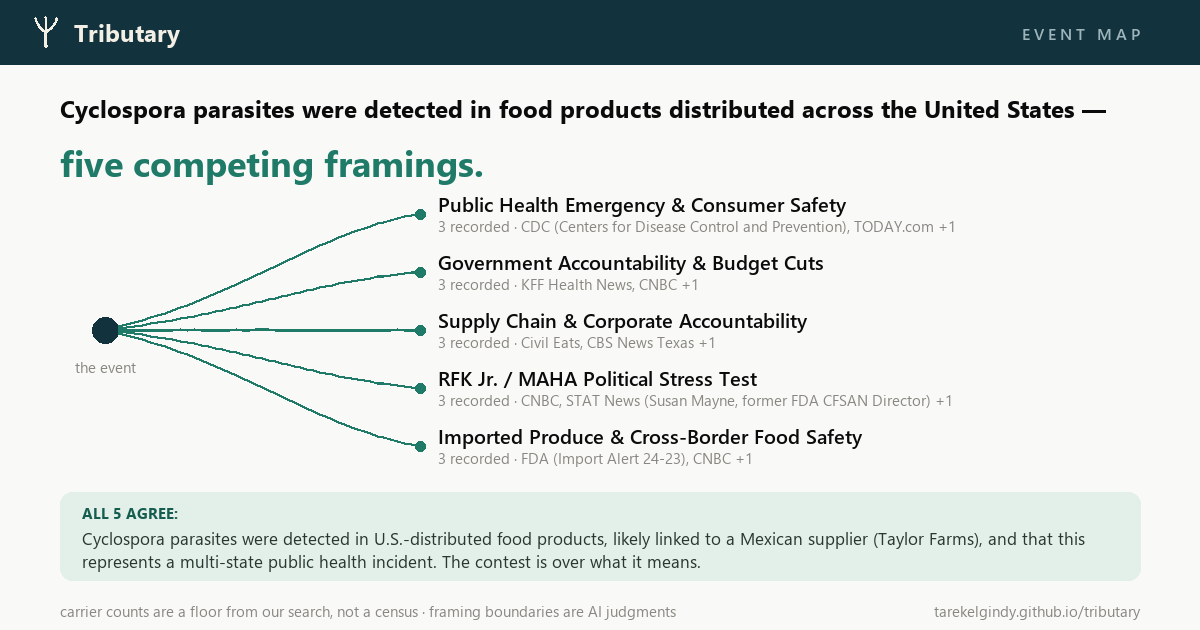
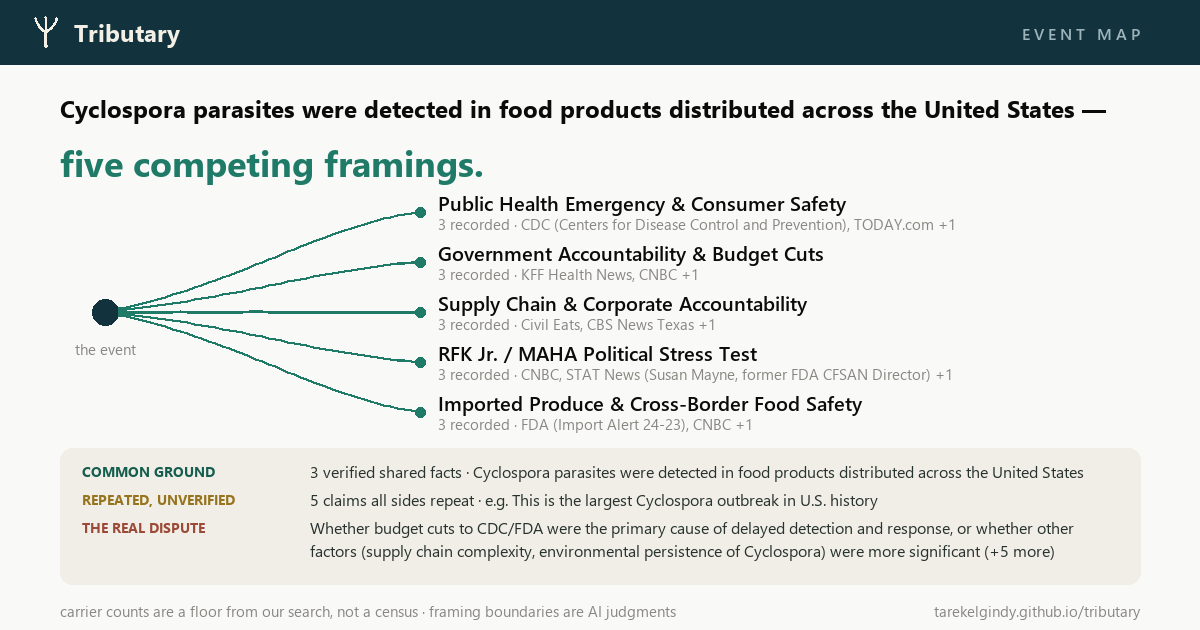
Event cards carry the full shared foundation, three voices
The riverbed becomes three labeled rows - COMMON GROUND (teal,
verified shared facts), REPEATED UNVERIFIED (amber, claims all sides
repeat), THE REAL DISPUTE (rust, the actual disagreement + count) -
one compressed line each, with the share page carrying the full three
lists. "All N agree" renamed to Common ground per Tarek. Grid fallback
gets the same band; validated on the 8-framing crypto event. Cyclospora,
Macklemore, and crypto cards rendered.

diff --git a/gallery/cards/e82aa88b3a7e.html b/gallery/cards/e82aa88b3a7e.html
@@ -27,7 +27,7 @@
             color: #898781; margin-bottom: 0.5rem; }
   .headline { font-size: 1.6rem; font-weight: 650; letter-spacing: -0.01em; margin: 0 0 0.3rem; }
   .title { color: #52514e; font-size: 0.95rem; margin: 0 0 1rem; }
-  .agree { background: #f4f3ef; border-radius: 8px; padding: 0.7rem 0.9rem; font-size: 0.88rem;
+  .agree { background: #e3efe9; border-radius: 8px; padding: 0.7rem 0.9rem; font-size: 0.88rem;
            color: #52514e; margin: 0 0 1.1rem; }
   .agree strong { color: #0b0b0b; }
   .fgrid { display: grid; grid-template-columns: 1fr 1fr; gap: 0.8rem; }
@@ -38,13 +38,21 @@
   .dots { display: flex; gap: 4px; align-items: center; }
   .dot { width: 9px; height: 9px; border-radius: 50%; background: #2a78d6; }
   .fcount { font-size: 0.78rem; color: #898781; margin-left: 4px; white-space: nowrap; }
+  .found { margin-top: 1.1rem; }
+  .found h3 { font-size: 0.78rem; font-weight: 700; letter-spacing: 0.06em;
+              text-transform: uppercase; margin: 1rem 0 0.3rem; }
+  .fh-cg { color: #155e4f; }
+  .fh-uv { color: #96741e; }
+  .fh-dp { color: #9c4a38; }
+  .found ul { margin: 0; padding-left: 1.15rem; color: #3d3c39; font-size: 0.88rem; }
+  .found li { margin-bottom: 0.3rem; }
   .cardfoot { border-top: 1px solid #e1e0d9; margin-top: 1rem; padding-top: 0.65rem;
               font-size: 0.78rem; color: #898781; display: flex; justify-content: space-between;
               flex-wrap: wrap; gap: 0.4rem; }
-  .cta { display: inline-block; margin: 1.3rem 0 0; background: #2a78d6; color: #fff;
+  .cta { display: inline-block; margin: 1.3rem 0 0; background: #1f7a68; color: #fff;
          text-decoration: none; font-weight: 600; font-size: 0.95rem;
          padding: 0.55rem 1.1rem; border-radius: 8px; }
-  .cta:hover { background: #184f95; }
+  .cta:hover { background: #155e4f; }
   .honesty { margin-top: 2.2rem; padding-top: 0.9rem; border-top: 1px solid #e1e0d9;
              color: #898781; font-size: 0.82rem; }
   .honesty a { color: #2a78d6; text-decoration: none; }
@@ -54,10 +62,10 @@
 <body>
 <div class="wrap">
   <div class="card">
-    <div class="kicker">Tributary · event analysis</div>
+    <div class="kicker">Tributary · event map</div>
     <div class="headline">8 competing framings.</div>
     <p class="title">A financial disclosure document reported that Donald Trump received over 1 billion dollars in income or value from cryptocurrency-related ventures.</p>
-    <div class="agree"><strong>Everyone agrees:</strong> Trump disclosed over $1 billion in crypto-related income, that he has financial interests in crypto ventures including World Liberty Financial, that the $TRUMP token experienced a major price decline, and that he pardoned Binance's CZ. The contest is over what it <em>means</em>.</div>
+    <div class="agree"><strong>Common ground:</strong> Trump disclosed over $1 billion in crypto-related income, that he has financial interests in crypto ventures including World Liberty Financial, that the $TRUMP token experienced a major price decline, and that he pardoned Binance's CZ. The contest is over what it <em>means</em>.</div>
     <div class="fgrid">
 <div class="fcell">
       <div class="fname">Corruption &amp; Conflict of Interest</div>
@@ -117,9 +125,14 @@
     </div>
     </div>
     
+    <div class="found">
+      <h3 class="fh-cg">Common ground — verified shared facts</h3><ul><li>A financial disclosure document reported that Donald Trump received over $1 billion in income or value from cryptocurrency-related ventures.</li><li>Trump's financial disclosure was 927 pages in length.</li><li>The $TRUMP token experienced a significant price decline from its peak.</li><li>Trump pardoned Changpeng Zhao (CZ), founder of Binance.</li><li>Trump disclosed a financial interest in World Liberty Financial (WLF).</li></ul>
+      <h3 class="fh-uv">Repeated by all sides, unverified</h3><ul><li>The UAE sovereign wealth fund invested $500 million in World Liberty Financial.</li><li>Trump earned $636 million specifically from the $TRUMP token.</li><li>988,905 retail wallets holding $TRUMP experienced losses.</li><li>Pakistan's government signed an MOU with World Liberty Financial.</li><li>The $TRUMP token's tokenomics allocate 80% of supply to Trump entities and 20% to the public.</li><li>Obama's final financial disclosure was 8 pages; Biden's was 11 pages.</li><li>Trump's disclosure filing incurred late fees and required a 45-day extension.</li></ul>
+      <h3 class="fh-dp">The actual points of disagreement</h3><ul><li>Whether Trump's crypto income constitutes a conflict of interest or self-dealing (Corruption framing) vs. whether it is legally permissible and reflects business success (Presidential Success framing)</li><li>Whether foreign investment in Trump crypto ventures represents a national security threat and pay-to-play channel (Foreign Influence framing) vs. whether outside fund managers handle his assets independently</li><li>Whether the $TRUMP token's structure and collapse caused systematic harm to retail investors (Retail Investor Harm framing) vs. whether retail participation in meme coins is a voluntary, speculative choice</li><li>Whether the 927-page disclosure represents unprecedented transparency (Presidential Transparency framing) or a document so vast it obscures rather than clarifies (Legislative Capture framing)</li><li>Whether Trump's crypto policy (GENIUS Act, deregulation) is a quid pro quo for personal enrichment (Corruption framing) vs. whether it reflects a coherent 'America First' crypto agenda (Presidential Success framing)</li><li>Whether the timing of the disclosure during Senate crypto bill negotiations poisoned legislative integrity (Legislative Capture framing) vs. whether it is irrelevant to the merits of crypto policy</li><li>Whether Trump's crypto dealings are politically reckless and will damage the GOP (Conservative Institutional Alarm framing) vs. whether they are legally sound and politically defensible</li><li>Whether meme coin tokenomics expose a regulatory gap that allows insider profit-taking (Crypto Market Structure framing) vs. whether meme coins are inherently speculative and require no special regulation</li></ul>
+    </div>
     <div class="cardfoot">
       <span>dots = carriers our search recorded — a floor, not a census; smaller outlets and individual voices are undercounted · framing boundaries are AI judgments</span>
-      <span>AI-generated, not human-reviewed</span>
+      <span>framing boundaries are AI judgments</span>
     </div>
   </div>
 

diff --git a/gallery/cards/8e48743e23ca.html b/gallery/cards/8e48743e23ca.html
@@ -38,6 +38,14 @@
   .dots { display: flex; gap: 4px; align-items: center; }
   .dot { width: 9px; height: 9px; border-radius: 50%; background: #2a78d6; }
   .fcount { font-size: 0.78rem; color: #898781; margin-left: 4px; white-space: nowrap; }
+  .found { margin-top: 1.1rem; }
+  .found h3 { font-size: 0.78rem; font-weight: 700; letter-spacing: 0.06em;
+              text-transform: uppercase; margin: 1rem 0 0.3rem; }
+  .fh-cg { color: #155e4f; }
+  .fh-uv { color: #96741e; }
+  .fh-dp { color: #9c4a38; }
+  .found ul { margin: 0; padding-left: 1.15rem; color: #3d3c39; font-size: 0.88rem; }
+  .found li { margin-bottom: 0.3rem; }
   .cardfoot { border-top: 1px solid #e1e0d9; margin-top: 1rem; padding-top: 0.65rem;
               font-size: 0.78rem; color: #898781; display: flex; justify-content: space-between;
               flex-wrap: wrap; gap: 0.4rem; }
@@ -57,7 +65,7 @@
     <div class="kicker">Tributary · event map</div>
     <div class="headline">5 competing framings.</div>
     <p class="title">Cyclospora parasites were detected in food products distributed across the United States.</p>
-    <div class="agree"><strong>All 5 agree:</strong> Cyclospora parasites were detected in U.S.-distributed food products, likely linked to a Mexican supplier (Taylor Farms), and that this represents a multi-state public health incident. The contest is over what it <em>means</em>.</div>
+    <div class="agree"><strong>Common ground:</strong> Cyclospora parasites were detected in U.S.-distributed food products, likely linked to a Mexican supplier (Taylor Farms), and that this represents a multi-state public health incident. The contest is over what it <em>means</em>.</div>
     <div class="fgrid">
 <div class="fcell">
       <div class="fname">Public Health Emergency &amp; Consumer Safety</div>
@@ -96,6 +104,11 @@
     </div>
     </div>
     
+    <div class="found">
+      <h3 class="fh-cg">Common ground — verified shared facts</h3><ul><li>Cyclospora parasites were detected in food products distributed across the United States</li><li>Taylor Farms de Mexico is a produce supplier that has been linked to Cyclospora contamination in past U.S. outbreaks</li><li>Cyclospora outbreaks in the U.S. have historically been associated with fresh produce imported from Mexico</li></ul>
+      <h3 class="fh-uv">Repeated by all sides, unverified</h3><ul><li>This is the largest Cyclospora outbreak in U.S. history</li><li>CDC and FDA budget cuts directly reduced surveillance capacity and delayed outbreak detection/response</li><li>Taylor Farms' market dominance in produce supply amplified outbreak reach</li><li>Taco Bell and Walmart received contaminated products from Taylor Farms in this outbreak</li><li>Mexican agricultural authorities tested negative for Cyclospora in the implicated produce</li></ul>
+      <h3 class="fh-dp">The actual points of disagreement</h3><ul><li>Whether budget cuts to CDC/FDA were the primary cause of delayed detection and response, or whether other factors (supply chain complexity, environmental persistence of Cyclospora) were more significant</li><li>Whether the outbreak reflects a systemic failure of U.S. food safety infrastructure or a manageable incident within normal outbreak response parameters</li><li>Whether Taylor Farms' market concentration is a structural problem requiring regulatory intervention, or whether voluntary recalls and traceability are adequate</li><li>Whether RFK Jr.'s fresh-produce advocacy is contradicted by the outbreak, or whether outbreaks are inevitable and separate from policy direction</li><li>Whether the Mexico origin indicates inadequate import inspection standards, or whether Cyclospora contamination is a natural agricultural risk present in all produce-growing regions</li><li>Whether the recall was sufficiently rapid and transparent, or whether it was delayed and inadequately communicated to consumers</li></ul>
+    </div>
     <div class="cardfoot">
       <span>dots = carriers our search recorded — a floor, not a census; smaller outlets and individual voices are undercounted · framing boundaries are AI judgments</span>
       <span>framing boundaries are AI judgments</span>

diff --git a/gallery/cards/004920783e29.html b/gallery/cards/004920783e29.html
@@ -38,6 +38,14 @@
   .dots { display: flex; gap: 4px; align-items: center; }
   .dot { width: 9px; height: 9px; border-radius: 50%; background: #2a78d6; }
   .fcount { font-size: 0.78rem; color: #898781; margin-left: 4px; white-space: nowrap; }
+  .found { margin-top: 1.1rem; }
+  .found h3 { font-size: 0.78rem; font-weight: 700; letter-spacing: 0.06em;
+              text-transform: uppercase; margin: 1rem 0 0.3rem; }
+  .fh-cg { color: #155e4f; }
+  .fh-uv { color: #96741e; }
+  .fh-dp { color: #9c4a38; }
+  .found ul { margin: 0; padding-left: 1.15rem; color: #3d3c39; font-size: 0.88rem; }
+  .found li { margin-bottom: 0.3rem; }
   .cardfoot { border-top: 1px solid #e1e0d9; margin-top: 1rem; padding-top: 0.65rem;
               font-size: 0.78rem; color: #898781; display: flex; justify-content: space-between;
               flex-wrap: wrap; gap: 0.4rem; }
@@ -57,7 +65,7 @@
     <div class="kicker">Tributary · event map</div>
     <div class="headline">5 competing framings.</div>
     <p class="title">Macklemore was removed from Ed Sheeran's US tour following a speech in which he expressed support for Palestine.</p>
-    <div class="agree"><strong>All 5 agree:</strong> Macklemore delivered a pro-Palestine speech, was removed from Sheeran's tour, and that multiple artists subsequently withdrew in response. The contest is over what it <em>means</em>.</div>
+    <div class="agree"><strong>Common ground:</strong> Macklemore delivered a pro-Palestine speech, was removed from Sheeran's tour, and that multiple artists subsequently withdrew in response. The contest is over what it <em>means</em>.</div>
     <div class="fgrid">
 <div class="fcell">
       <div class="fname">Artistic Free Speech / Censorship</div>
@@ -96,6 +104,11 @@
     </div>
     </div>
     
+    <div class="found">
+      <h3 class="fh-cg">Common ground — verified shared facts</h3><ul><li>Macklemore performed a speech expressing support for Palestine during Ed Sheeran's US tour</li><li>Macklemore was subsequently removed from Ed Sheeran's US tour</li><li>Finneas, Lukas Graham, Aaron Rowe, and Beoga withdrew from the tour following Macklemore's removal</li><li>Robert Kraft is owner of the New England Patriots and Gillette Stadium</li><li>Macklemore wore a controversial costume in 2014 that drew accusations of antisemitic imagery</li></ul>
+      <h3 class="fh-uv">Repeated by all sides, unverified</h3><ul><li>Robert Kraft directly coordinated with other NFL owners or venue operators to remove Macklemore</li><li>Macklemore used the phrase 'from the river to the sea' in a song performed during the tour</li><li>Ed Sheeran donated $2 million to humanitarian causes in response to the controversy</li><li>Macklemore pledged tour earnings to Gaza humanitarian relief</li><li>Gillette Stadium and other venues involved received public subsidies</li></ul>
+      <h3 class="fh-dp">The actual points of disagreement</h3><ul><li>Whether Macklemore's speech constituted political advocacy or hate speech / antisemitic rhetoric</li><li>Whether venue owners' decision was justified as hate-speech accountability or unjustified censorship of political speech</li><li>Whether Robert Kraft acted unilaterally or coordinated a multi-owner blacklist</li><li>Whether the removal represents a dangerous precedent for artistic freedom or appropriate boundary-setting against hate speech</li><li>Whether Ed Sheeran's 'apolitical' stance is a neutral position or itself a political choice that enables harm</li><li>Whether artist solidarity withdrawals were principled moral witness or performative activism</li><li>Whether publicly subsidized venues have different First Amendment obligations than private ones, and if so, what they are</li><li>The moral equivalence (or lack thereof) between Macklemore's speech and Chris Brown's prior felony conviction in evaluating performer suitability</li></ul>
+    </div>
     <div class="cardfoot">
       <span>dots = carriers our search recorded — a floor, not a census; smaller outlets and individual voices are undercounted · framing boundaries are AI judgments</span>
       <span>framing boundaries are AI judgments</span>

diff --git a/cards.py b/cards.py
@@ -1226,6 +1226,11 @@ def event_card_data(ev):
     else:
         facts = [v.get("statement") or "" for v in sf.get("verified_facts") or []]
         agrees = " ".join(facts[:2])
+    verified = [v.get("statement") or "" for v in sf.get("verified_facts") or []]
+    unverified = [str(u.get("statement") if isinstance(u, dict) else u)
+                  for u in sf.get("unverified_shared_claims") or []]
+    disputes = [str(x.get("statement") if isinstance(x, dict) else x)
+                for x in sf.get("points_of_disagreement") or []]
     return {
         "analysis_id": ev.get("analysis_id") or "",
         "title": (ev.get("event") or "").strip(),
@@ -1233,6 +1238,9 @@ def event_card_data(ev):
         "cells": cells[:8],
         "n_hidden": max(0, len(framings) - 8),
         "agrees": agrees,
+        "verified": [v for v in verified if v],
+        "unverified": [u for u in unverified if u],
+        "disputes": [x for x in disputes if x],
         "headline": f"{len(framings)} competing framings.",
     }
 
@@ -1247,8 +1255,10 @@ EV_INK = (18, 51, 62)
 EV_CREAM = (243, 239, 228)
 EV_TEAL = (31, 122, 104)
 EV_TEAL_DEEP = (21, 94, 79)
-EV_BED = (227, 239, 233)
-EV_BED_TXT = (40, 56, 47)
+EV_BED = (240, 238, 230)
+EV_BED_TXT = (40, 50, 47)
+EV_AMBER = (150, 116, 30)
+EV_RUST = (156, 74, 56)
 _NUMWORD = {2: "two", 3: "three", 4: "four", 5: "five", 6: "six",
             7: "seven", 8: "eight", 9: "nine"}
 
@@ -1284,6 +1294,39 @@ def _event_band(d):
     d.text((W - 60 - d.textlength(lbl, font=f), 22), lbl, fill=(157, 180, 186), font=f)
 
 
+def _foundation_band(d, cd, ML, MR, top, bottom, dispute_lines=2):
+    """The riverbed, three voices: what is verified and shared (common
+    ground), what all sides repeat unverified, and the actual dispute.
+    One compressed line per voice — the tap-through page carries the
+    full lists."""
+    cw = MR - ML
+    d.rounded_rectangle([ML, top, MR, bottom], radius=12, fill=EV_BED)
+    lx, tx = ML + 22, ML + 250
+    f_lbl, f_t = _font(14, "bold"), _font(16)
+    y = top + 12
+
+    def row(label, color, text, lines=1):
+        nonlocal y
+        d.text((lx, y + 1), label, font=f_lbl, fill=color)
+        for ln in _wrap(d, text, f_t, MR - 22 - tx, lines):
+            d.text((tx, y), ln, font=f_t, fill=EV_BED_TXT)
+            y += 23
+        y += 5
+
+    if cd["verified"] or cd["agrees"]:
+        n = len(cd["verified"])
+        lead = cd["verified"][0] if cd["verified"] else cd["agrees"]
+        row("COMMON GROUND", EV_TEAL_DEEP,
+            (f"{n} verified shared facts · " if n else "") + lead, 1)
+    if cd["unverified"]:
+        row("REPEATED, UNVERIFIED", EV_AMBER,
+            f'{len(cd["unverified"])} claims all sides repeat · '
+            f'e.g. {cd["unverified"][0]}', 1)
+    if cd["disputes"]:
+        more = f' (+{len(cd["disputes"]) - 1} more)' if len(cd["disputes"]) > 1 else ""
+        row("THE REAL DISPUTE", EV_RUST, cd["disputes"][0] + more, dispute_lines)
+
+
 def _event_footer(d, ML, MR):
     f_f = _font(15)
     d.text((ML, 600), "carrier counts are a floor from our search, not a census "
@@ -1307,18 +1350,16 @@ def render_event_png(cd, out_path):
            fill=EV_TEAL)
 
     cells = cd["cells"]
-    agree_text = ((cd["agrees"] + " The contest is over what it means.")
-                  if cd["agrees"] else "")
 
     if cd["n_framings"] <= 5:
         # --- the delta ---
         k = len(cells)
-        cy = 330
+        cy = 312
         d.ellipse([92, cy - 13, 118, cy + 13], fill=EV_INK)
         f_ev = _font(15)
         d.text((105 - d.textlength("the event", font=f_ev) / 2, cy + 26),
                "the event", font=f_ev, fill=INK3)
-        spacing = {2: 110, 3: 92, 4: 72}.get(k, 58)
+        spacing = {2: 104, 3: 86, 4: 66}.get(k, 50)
         f_name, f_car = _font(20, "semibold"), _font(15)
         for i, c in enumerate(cells):
             y = cy + (i - (k - 1) / 2) * spacing
@@ -1327,39 +1368,23 @@ def render_event_png(cd, out_path):
                        (315, y - (y - cy) * 0.16), (418, y))
             d.line(pts, fill=EV_TEAL, width=3, joint="curve")
             d.ellipse([415, y - 5, 425, y + 5], fill=EV_TEAL)
-            d.text((438, y - 24), _ellipsize(d, c["name"], f_name, MR - 438),
+            d.text((438, y - 23), _ellipsize(d, c["name"], f_name, MR - 438),
                    font=f_name, fill=INK1)
             names = ", ".join(c["names"][:2]) + \
                 (f' +{len(c["names"]) - 2}' if len(c["names"]) > 2 else "")
             d.text((438, y + 1),
                    _ellipsize(d, f'{c["n"]} recorded · {names}', f_car, MR - 438),
                    font=f_car, fill=INK3)
-        if agree_text:
-            d.rounded_rectangle([ML, 492, MR, 580], radius=12, fill=EV_BED)
-            d.text((ML + 22, 502), f'ALL {cd["n_framings"]} AGREE:',
-                   font=_font(15, "bold"), fill=EV_TEAL_DEEP)
-            f_a = _font(17)
-            ay = 526
-            for ln in _wrap(d, agree_text, f_a, cw - 44, 2):
-                d.text((ML + 22, ay), ln, font=f_a, fill=EV_BED_TXT)
-                ay += 23
+        _foundation_band(d, cd, ML, MR, 448, 584, dispute_lines=2)
     else:
         # --- the grid fallback (concept B) for crowded events ---
-        if agree_text:
-            d.rounded_rectangle([ML, 190, MR, 262], radius=12, fill=EV_BED)
-            d.text((ML + 22, 199), f'ALL {cd["n_framings"]} AGREE:',
-                   font=_font(15, "bold"), fill=EV_TEAL_DEEP)
-            f_a = _font(16)
-            ay = 220
-            for ln in _wrap(d, agree_text, f_a, cw - 44, 2):
-                d.text((ML + 22, ay), ln, font=f_a, fill=EV_BED_TXT)
-                ay += 21
+        _foundation_band(d, cd, ML, MR, 184, 288, dispute_lines=1)
         f_name, f_car = _font(20, "semibold"), _font(15)
         col_w = (cw - 60) // 2
-        top = 288
+        top = 306
         for i, c in enumerate(cells):
             x = ML + (i % 2) * (col_w + 60)
-            y = top + (i // 2) * 68
+            y = top + (i // 2) * 62
             d.ellipse([x, y + 6, x + 10, y + 16], fill=EV_TEAL)
             d.text((x + 18, y), _ellipsize(d, c["name"], f_name, col_w - 18),
                    font=f_name, fill=INK1)
@@ -1369,7 +1394,7 @@ def render_event_png(cd, out_path):
                    _ellipsize(d, f'{c["n"]} recorded · {names}', f_car, col_w - 18),
                    font=f_car, fill=INK3)
         if cd["n_hidden"]:
-            d.text((ML, top + 4 * 68 + 2), f'+ {cd["n_hidden"]} more framings '
+            d.text((ML, top + 4 * 62 + 2), f'+ {cd["n_hidden"]} more framings '
                    'on the full analysis', font=_font(15), fill=INK3)
 
     _event_footer(d, ML, MR)
@@ -1434,6 +1459,14 @@ def render_event_page(cd, out_path):
   .dots {{ display: flex; gap: 4px; align-items: center; }}
   .dot {{ width: 9px; height: 9px; border-radius: 50%; background: #2a78d6; }}
   .fcount {{ font-size: 0.78rem; color: #898781; margin-left: 4px; white-space: nowrap; }}
+  .found {{ margin-top: 1.1rem; }}
+  .found h3 {{ font-size: 0.78rem; font-weight: 700; letter-spacing: 0.06em;
+              text-transform: uppercase; margin: 1rem 0 0.3rem; }}
+  .fh-cg {{ color: #155e4f; }}
+  .fh-uv {{ color: #96741e; }}
+  .fh-dp {{ color: #9c4a38; }}
+  .found ul {{ margin: 0; padding-left: 1.15rem; color: #3d3c39; font-size: 0.88rem; }}
+  .found li {{ margin-bottom: 0.3rem; }}
   .cardfoot {{ border-top: 1px solid #e1e0d9; margin-top: 1rem; padding-top: 0.65rem;
               font-size: 0.78rem; color: #898781; display: flex; justify-content: space-between;
               flex-wrap: wrap; gap: 0.4rem; }}
@@ -1453,11 +1486,16 @@ def render_event_page(cd, out_path):
     <div class="kicker">Tributary · event map</div>
     <div class="headline">{esc(cd["headline"])}</div>
     <p class="title">{esc(cd["title"])}</p>
-    {f'<div class="agree"><strong>All {cd["n_framings"]} agree:</strong> {esc(cd["agrees"])} The contest is over what it <em>means</em>.</div>' if cd["agrees"] else ''}
+    {f'<div class="agree"><strong>Common ground:</strong> {esc(cd["agrees"])} The contest is over what it <em>means</em>.</div>' if cd["agrees"] else ''}
     <div class="fgrid">
 {cells_html}
     </div>
     {f'<p class="fcar" style="margin-top:0.6rem;">+ {cd["n_hidden"]} more framings on the full analysis.</p>' if cd["n_hidden"] else ''}
+    <div class="found">
+      {f'<h3 class="fh-cg">Common ground — verified shared facts</h3><ul>' + "".join(f"<li>{esc(x)}</li>" for x in cd["verified"]) + '</ul>' if cd["verified"] else ''}
+      {f'<h3 class="fh-uv">Repeated by all sides, unverified</h3><ul>' + "".join(f"<li>{esc(x)}</li>" for x in cd["unverified"]) + '</ul>' if cd["unverified"] else ''}
+      {f'<h3 class="fh-dp">The actual points of disagreement</h3><ul>' + "".join(f"<li>{esc(x)}</li>" for x in cd["disputes"]) + '</ul>' if cd["disputes"] else ''}
+    </div>
     <div class="cardfoot">
       <span>dots = carriers our search recorded — a floor, not a census; smaller outlets and individual voices are undercounted · framing boundaries are AI judgments</span>
       <span>framing boundaries are AI judgments</span>
